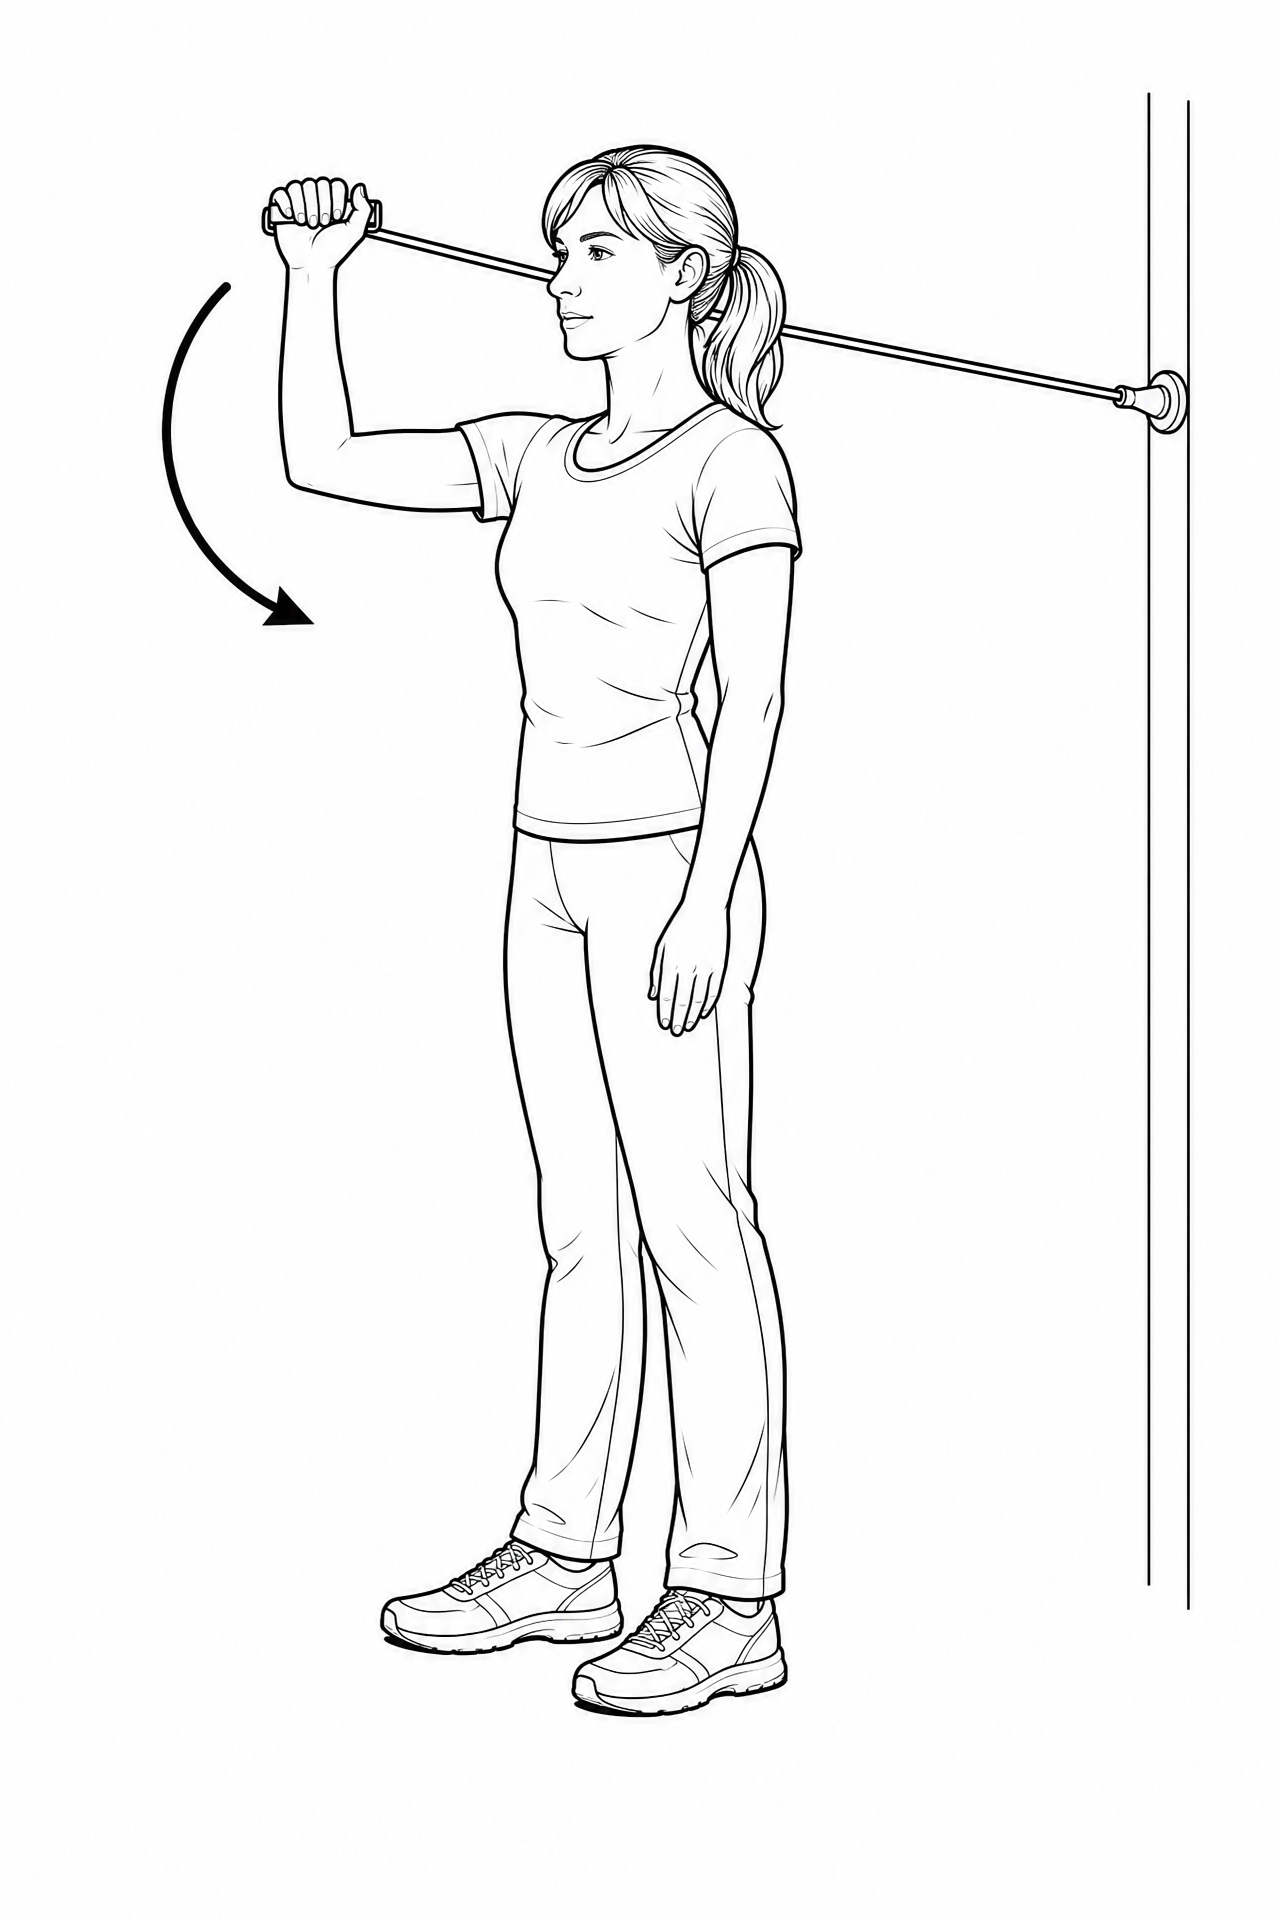
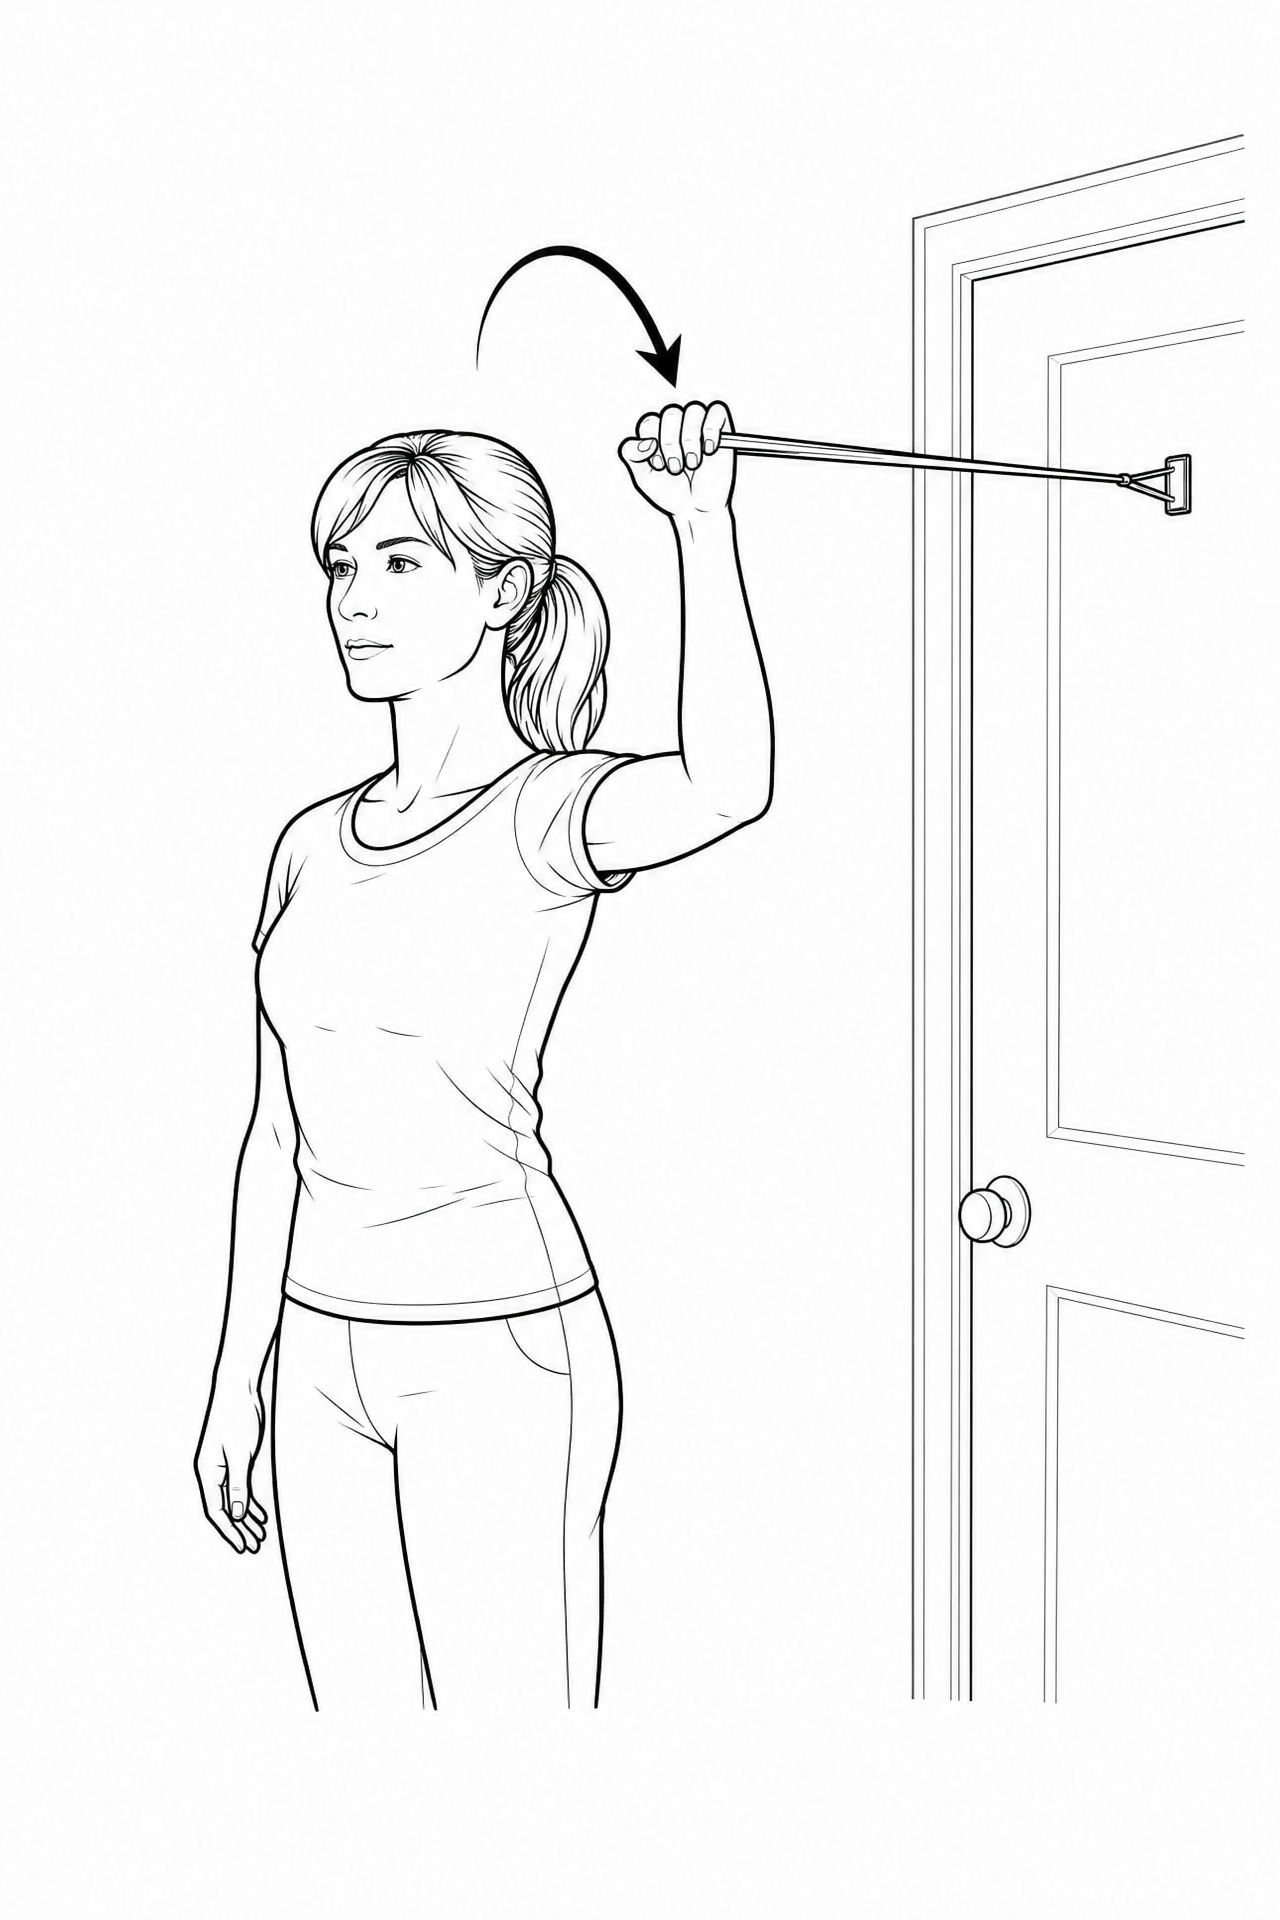
Schouder proefset ronde 2: 3 t/m 6 hersteld (40 credits)

diff --git a/output/schouder/proefset/beoordeling.md b/output/schouder/proefset/beoordeling.md
@@ -17,3 +17,19 @@ Maximaal 2 pogingen per beeld; oude pogingen staan erbij als `-poging1` / `-pogi
 - De 90/90-rotaties (3, 4) lukken het model niet betrouwbaar: het maakt de arm steeds gestrekt. Voorstel: deze twee niet nog eens zo proberen, maar
   (a) een close-up vanaf de voorkant met alleen bovenlichaam, of (b) eerst een eigen lijntekening als referentie (bijvoorbeeld van de bestaande 'Schouder naar buiten draaien – met elastiek' met elleboog in de zij) en die arm laten heffen.
 - Kleine bewegingen (5, 6) zijn in een totaalbeeld nauwelijks zichtbaar. Voorstel: close-up van bovenrug/schouders, eventueel met een pijl in de avatar.
+
+## Ronde 2 (herstel 3 t/m 6, akkoord max. 50 credits)
+
+Verbruikt 40 credits (2 nieuwe lijntekeningen, 4 avatars, 2 herkansingen avatar). Saldo 185. Totaal schouderproefset: 130 credits.
+Ronde-1-beelden staan erbij als `-ronde1`, mislukte ronde-2-pogingen als `-ronde2-pogingN`.
+Aanpak: ingezoomd (heupen en hoger), driekwart vooraanzicht, arm uitdrukkelijk als L (bovenarm horizontaal opzij, elleboog 90 graden); 5 en 6 ingezoomd op bovenrug.
+
+| nr | oefening | lijntekening | avatar | oordeel |
+|---|---|---|---|---|
+| 3 | Schouder naar binnen draaien in 90 graden | goed: L-vorm, onderarm omhoog, pijl naar voren | fout: beginhouding redelijk (onderarm omhoog), maar in de eindhouding strekt het model de arm weer naar voren. Ook na 2 pogingen. | **fout** |
+| 4 | Schouder naar buiten draaien in 90 graden | goed: L-vorm, onderarm naar voren, pijl omhoog | goed: begin onderarm naar voren met elleboog gebogen, eind onderarm omhoog (90/90) | **goed** |
+| 5 | Buiklig armen heffen | (ongewijzigd) goed | matig: ingezoomd, armen komen nu zichtbaar los maar nog maar een klein stukje | **matig** |
+| 6 | Schouderblad naar achteren | (ongewijzigd) goed | goed: ingezoomd, begin duidelijk rond/ingezakt, eind rechtop met schouders naar achteren | **goed** |
+
+Stand proefset: goed 1, 2, 4, 6 · matig 5 · fout 3.
+Advies voor 3: niet opnieuw in 90 graden proberen. Het model maakt van de eindhouding steeds een gestrekte arm. Beter de variant met de elleboog in de zij (bovenarm langs het lichaam) gebruiken, of 3 voorlopig zonder avatar laten.
